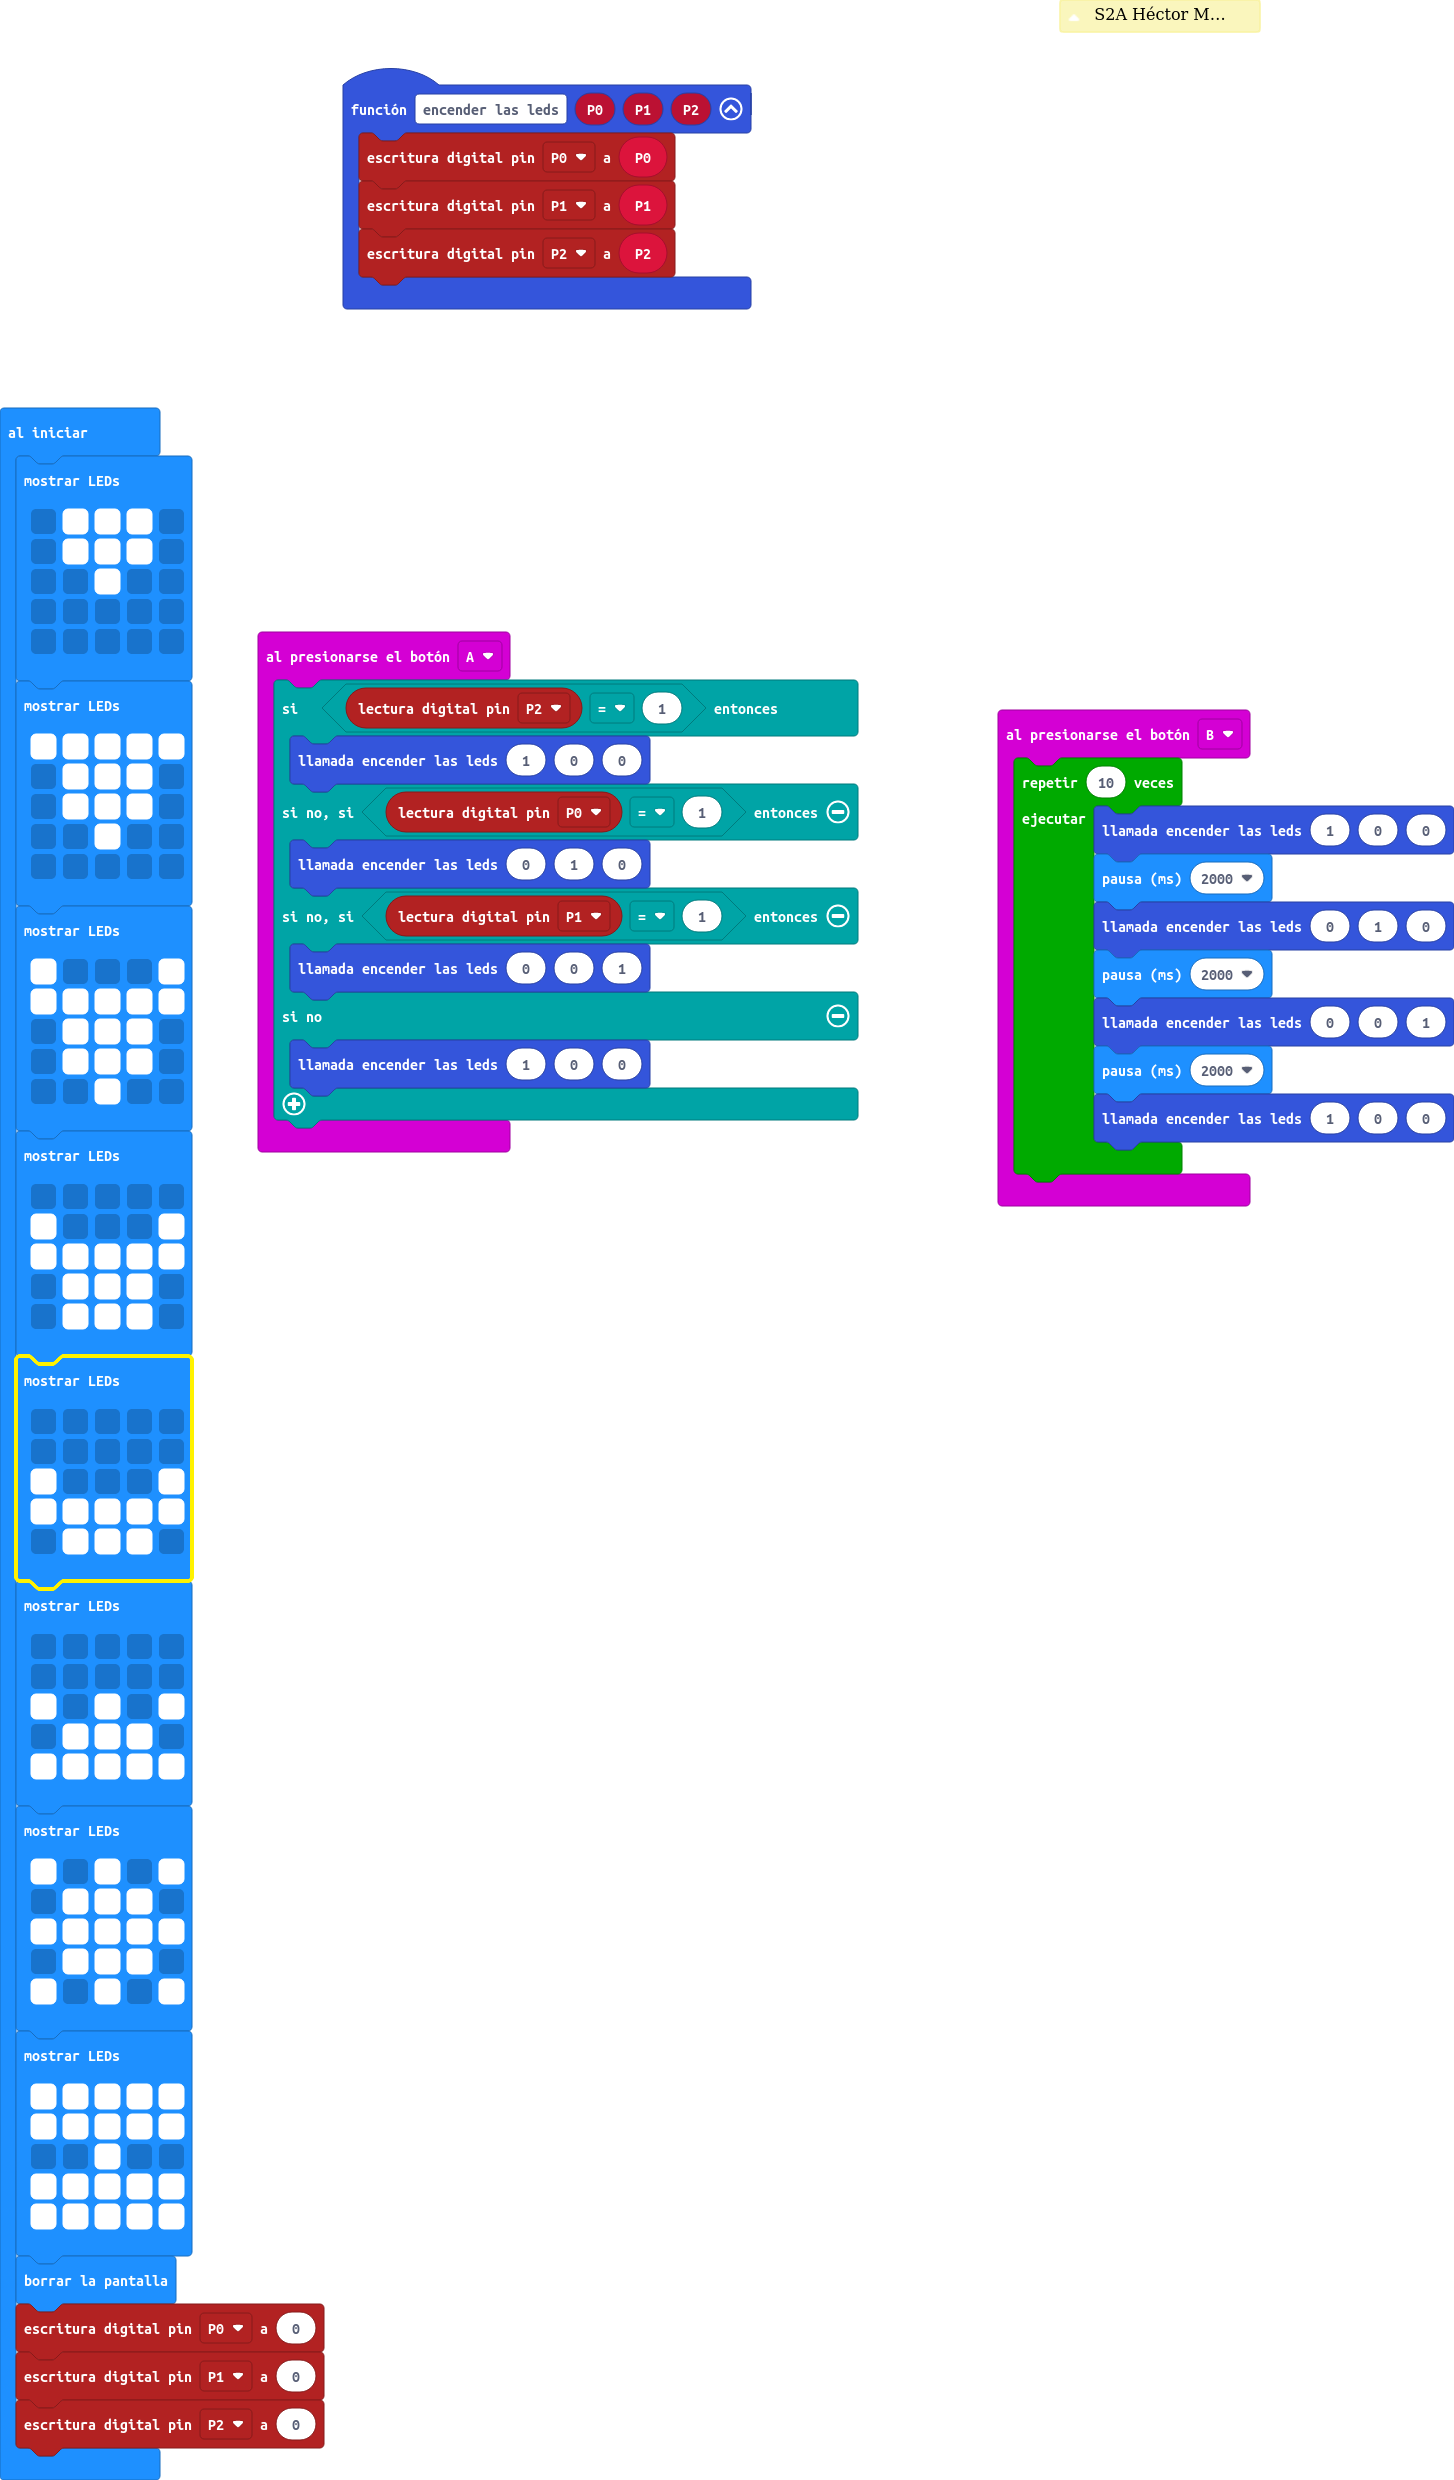
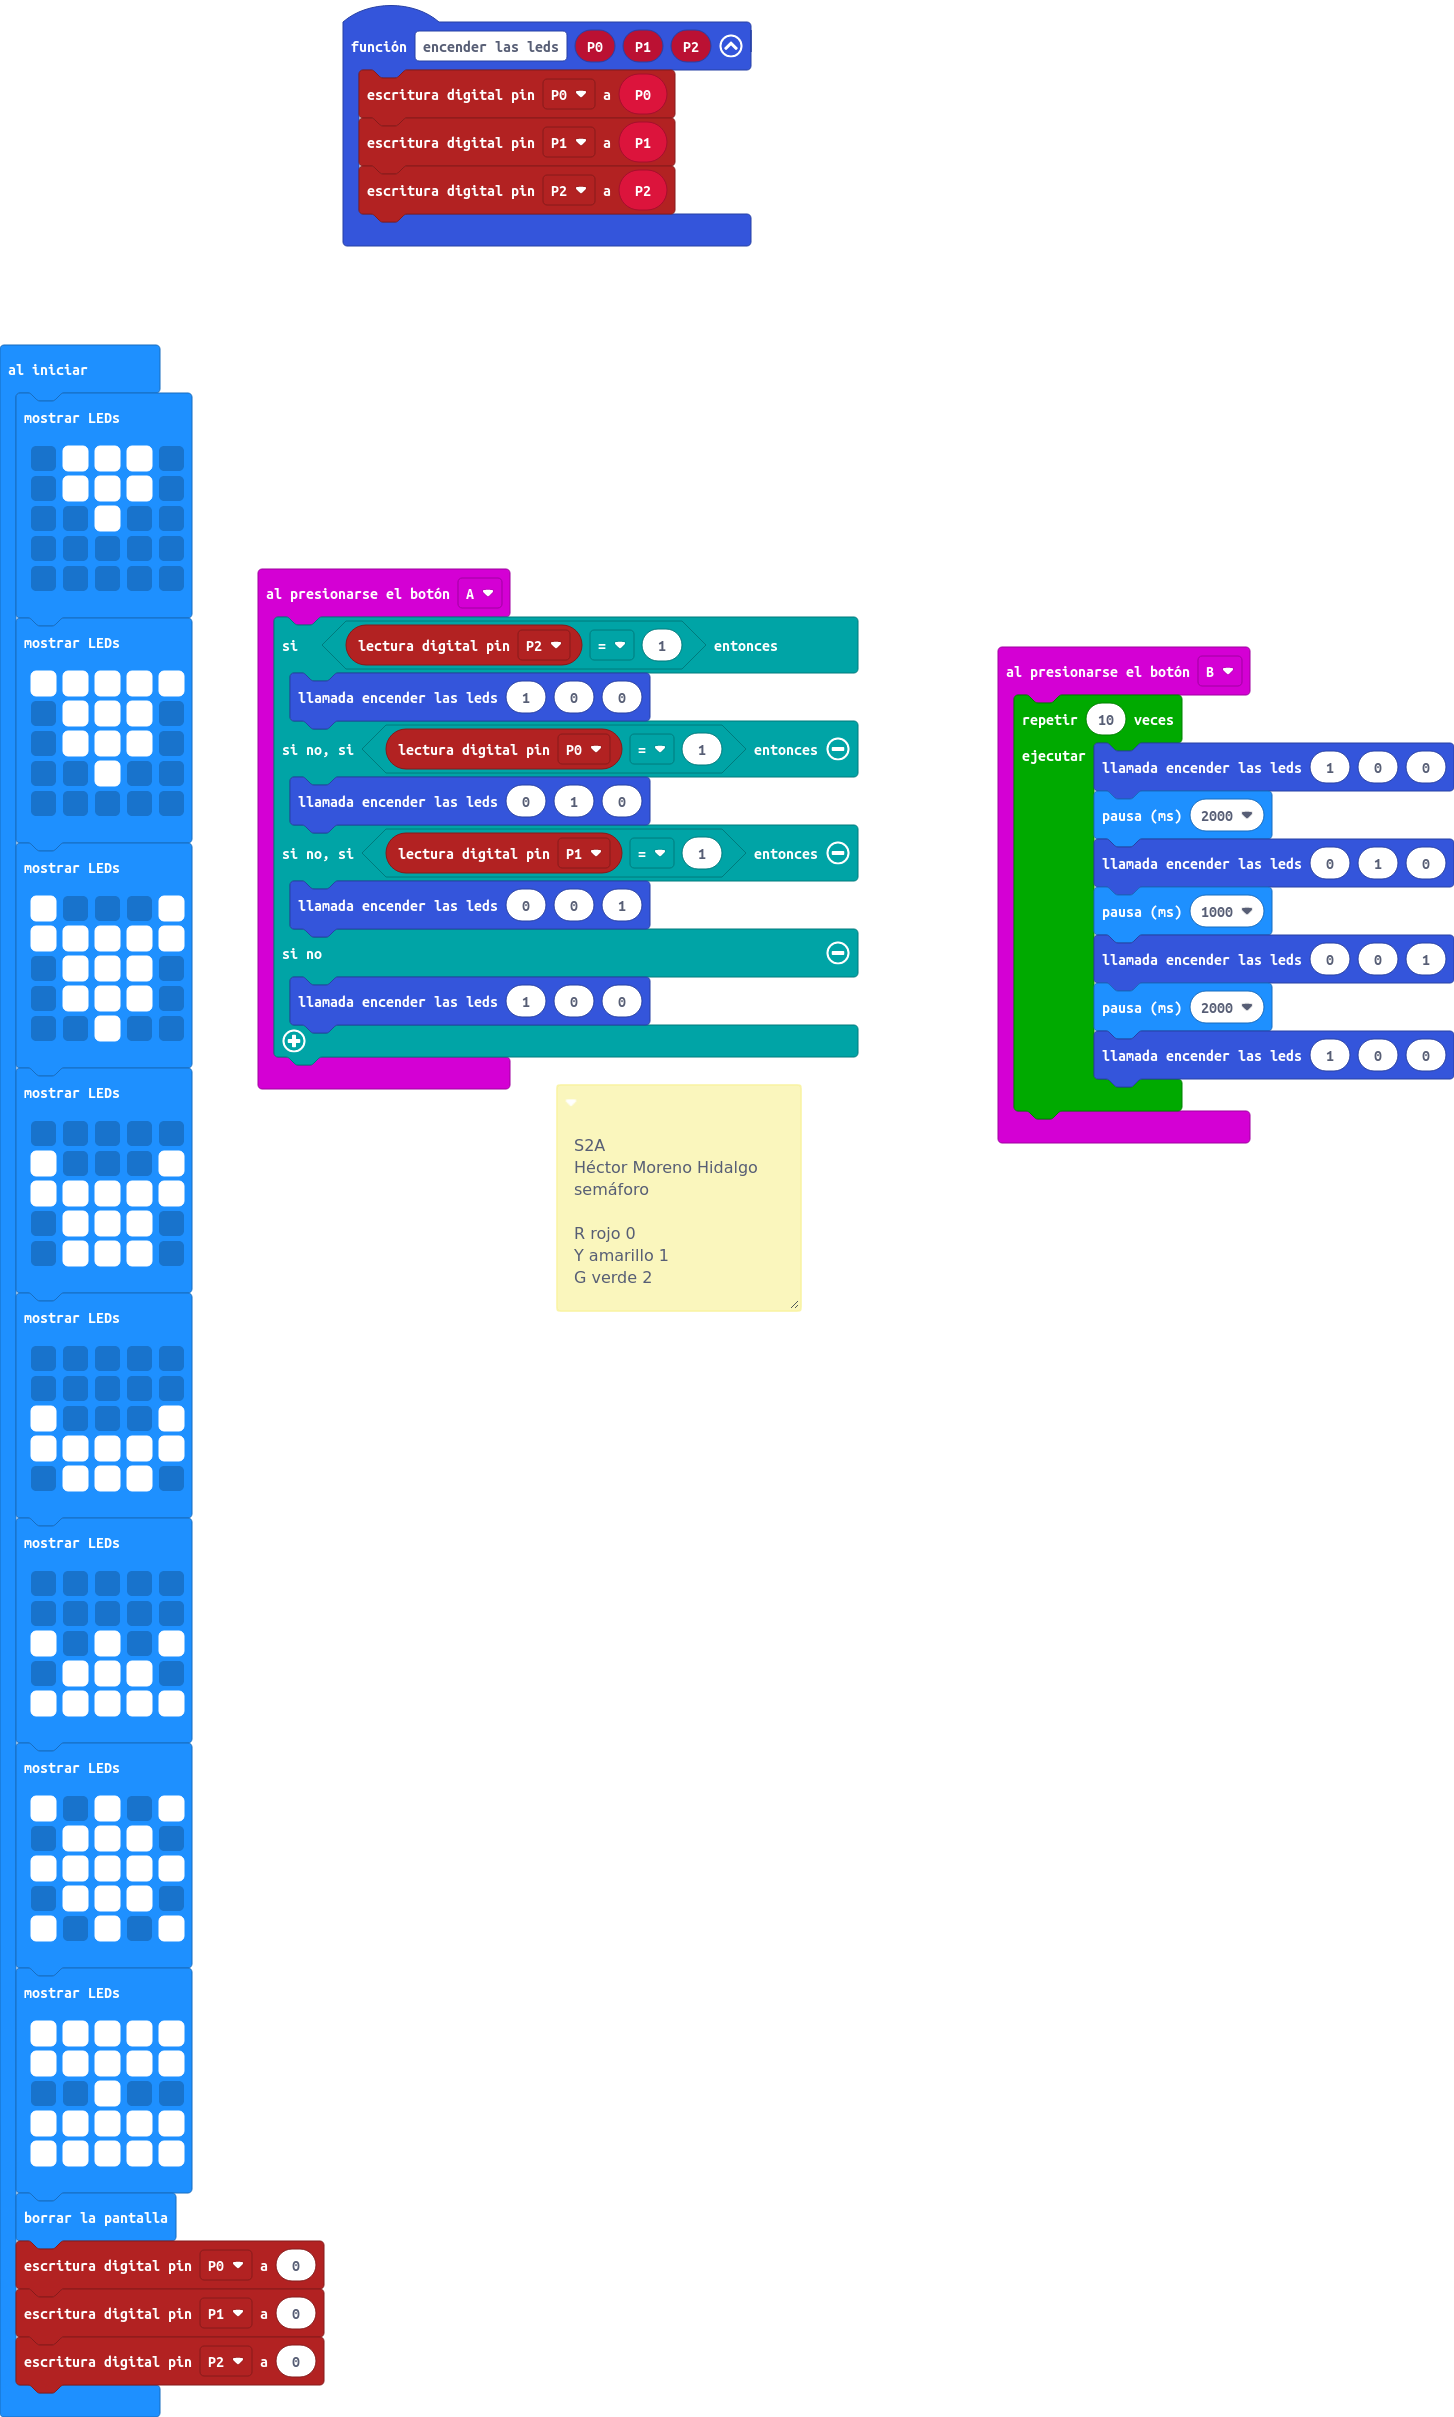
Actualizar main.blocks, main.ts

diff --git a/main.ts b/main.ts
@@ -32,7 +32,7 @@ input.onButtonPressed(Button.B, function () {
         encender_las_leds(1, 0, 0)
         basic.pause(2000)
         encender_las_leds(0, 1, 0)
-        basic.pause(2000)
+        basic.pause(1000)
         encender_las_leds(0, 0, 1)
         basic.pause(2000)
         encender_las_leds(1, 0, 0)
